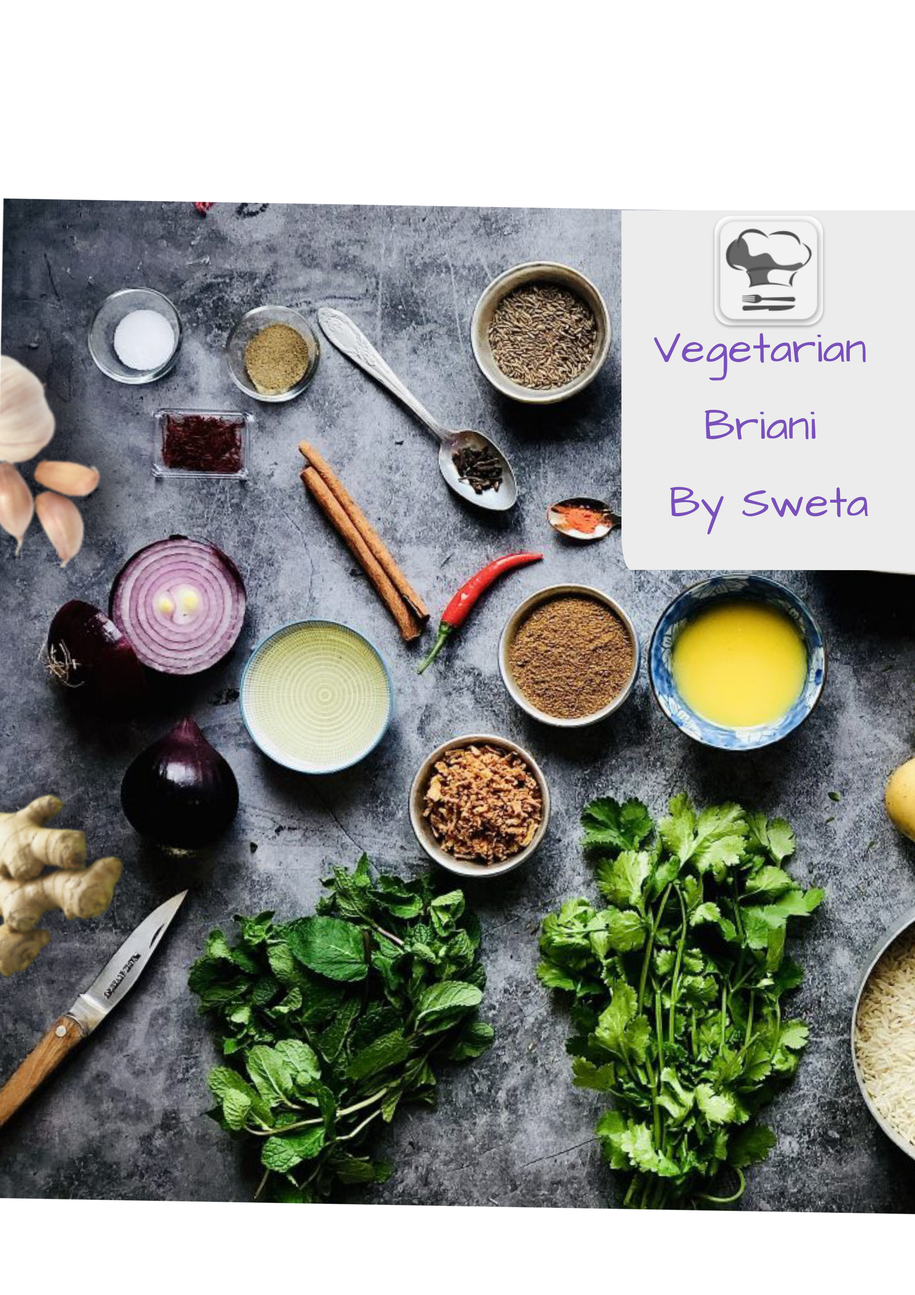
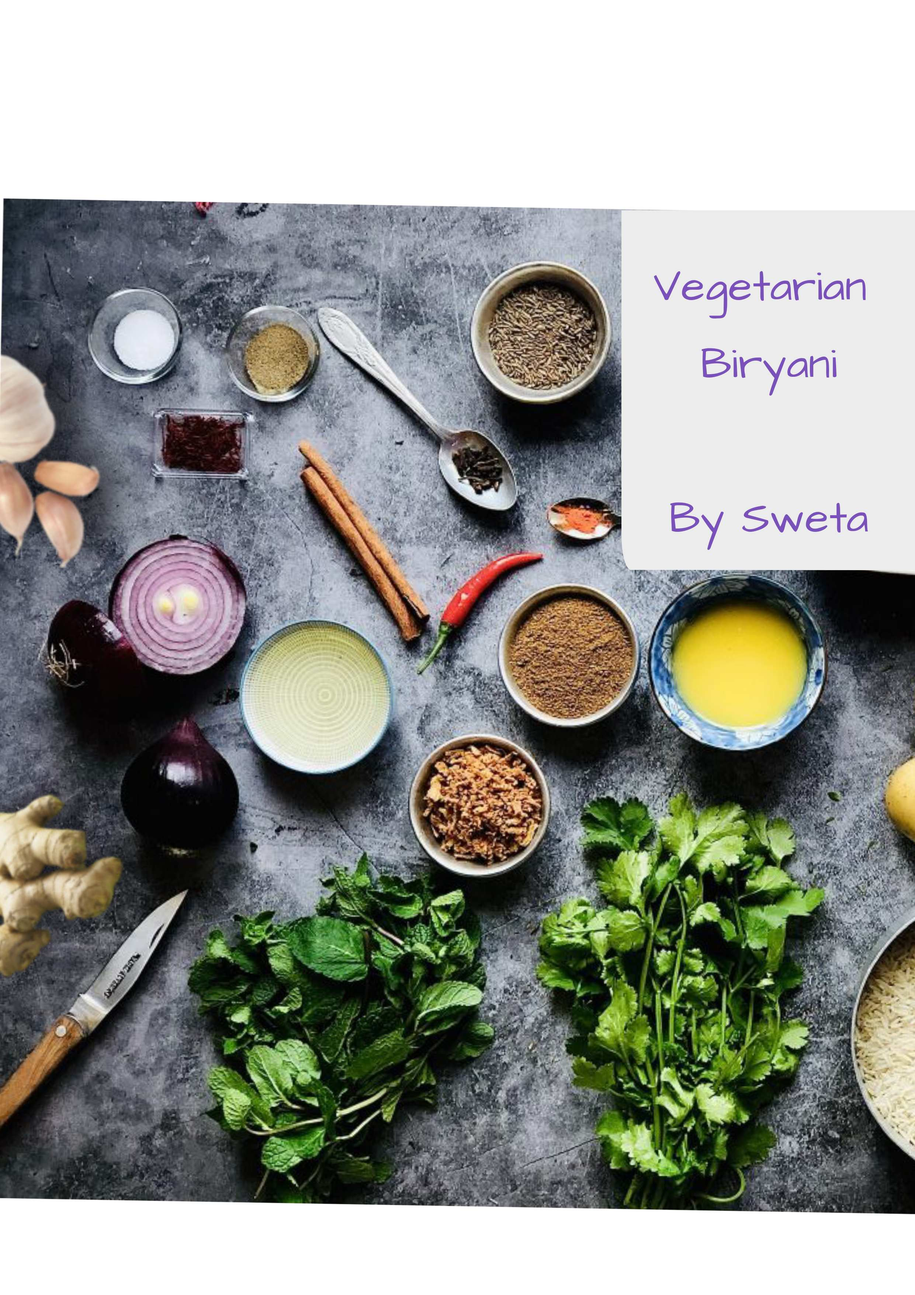
'asd'

Changed region(s): [[0.7138, 0.1553, 0.9311, 0.3417], [0.7138, 0.3728, 0.9621, 0.4038]]

diff --git a/food/veg-biryani.html b/food/veg-biryani.html
@@ -26,7 +26,7 @@
     <meta property="og:title" content="Veg Biryani by Sweta"/>
     <meta property="og:type" content="website"/>
     <meta property="og:url" content="https://yaminee-blog.github.io/food/veg-biryani.html"/>
-    <meta property="og:image" content="https://yaminee-blog.github.io/images/veg_biryani/fb_cover.jpg"/>
+    <meta property="og:image" content="https://yaminee-blog.github.io/images/veg_biryani/fb_cover.png"/>
     <meta property="og:description" content="How to make vegetarien biryani, the Mauritian way"/>
     <meta property="fb:app_id" content="740212466515654"/>
 
@@ -93,7 +93,7 @@
 </nav>
 <!-- END nav -->
 
-<section class="hero-wrap hero-wrap-2" style="background-image: url('../images/veg_biryani/cover.jpg');">
+<section class="hero-wrap hero-wrap-2" style="background-image: url('../images/veg_biryani/cover_page.png');">
     <div class="overlay"></div>
     <div class="container">
         <div class="row no-gutters slider-text align-items-end justify-content-center">
